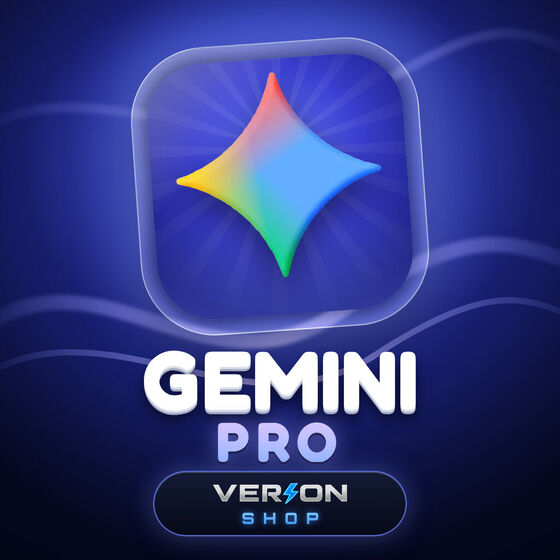
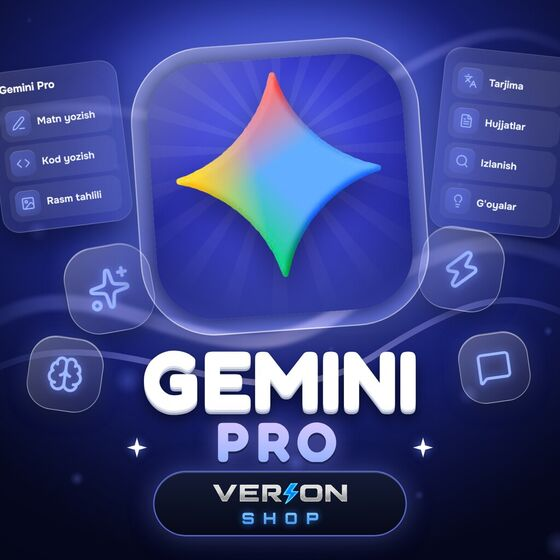
v3.34: mahsulot muqovalari — yon panellarda mahsulotga oid ma'lumot, emoji/stikersiz
Stars ro'yxati, Premium muddatlari va imkoniyatlari, sovg'a turlari, raqam
kodlari va xizmatlar, Steam menyusi va hamyon, Gemini imkoniyatlari, CS2
pichoq/qurollar, Dota 2 qahramonlari (haqiqiy rasmlar), Rust qurol/buyumlari.
SVG ikonkali shisha plitkalar qoldi; stiker va emoji o'xshash narsalar yo'q.

Claude-Session: https://claude.ai/code/session_01CbtuoV2biNfcxKy98shqWf

diff --git a/server.js b/server.js
@@ -14,7 +14,7 @@ const ADMIN_IDS = (process.env.ADMIN_IDS || "5606872249,8684274899")
 /* Deploy belgisi — Railway rostdan yangi kodni ko'tardimi yoki eski build turibdimi,
    shuni ko'rish uchun. Profil ekranida ID ostida ko'rinadi (server/ilova alohida).
    Kod o'zgarganda shu satrni yangilab qo'yiladi. */
-const BUILD = "2026-11-06.6";
+const BUILD = "2026-11-06.7";
 // Har ishga tushishda yangi tasodifiy belgi — /api/health orqali "bu manzil aynan
 // SHU serverga olib keladimi" tekshiruvi uchun (maxfiy emas).
 const INSTANCE_ID = crypto.randomBytes(8).toString("hex");

diff --git a/verion-shop.html b/verion-shop.html
@@ -2827,7 +2827,7 @@ var ADMIN_IDS=[5606872249, 8684274899];
 /* Deploy belgisi — Profil ekranida ID ostida ko'rinadi. Ikkita raqam bo'ladi:
    birinchisi shu HTML fayl (Telegram keshi eski bo'lsa eskiligicha qoladi),
    ikkinchisi server (Railway). Ikkalasi bir xil bo'lmasa — kesh yoki deploy eski. */
-var CLIENT_BUILD="2026-11-06.6";
+var CLIENT_BUILD="2026-11-06.7";
 
 /* ===== Telegram init (guarded) ===== */
 var TG=null;

diff --git a/README.md b/README.md
@@ -380,6 +380,7 @@ Ko'rinishi ilova mavzusidan qat'i nazar doim to'q: grafit fon, Unbounded (sarlav
 - **v3.19 — bosh sahifa kartalari «tirik»:** har bir bo'lim kartasida (a) rasm juda sekin yaqinlashadi, (b) 12 soniyalik aylanishda navbat bilan bitta kartada yumshoq och-ko'k yorug'lik chizig'i aylanib chiqadi (hamma kartada bir xil rang), (c) pastda yashil «Sotib olish» tugmasi (`ctaBtn()`: yaltirash, oq doira ichida harakatlanuvchi strelka, yonayotgan kartada halqa), (d) bosilganda bosilgan joydan to'lqin (`pripple`), (e) mahsulot soni yonida yashil «mavjud» nuqtasi. Nakrutka kartasida faqat mahsulot soni (yuklanguncha «…», xato bo'lsa eski izoh; `NkHomeFail`). Hammasi faqat `transform`/`opacity`; «Kamroq harakat» (`data-reduce-motion`), `prefers-reduced-motion` va `.lite` rejimida o'chadi (ilgari bu ro'yxat keyingi `@media` qoidasi bilan qo'shilib qolib, sozlama ishlamas edi — tuzatildi). Bo'lim kartalarining rasmlari (1024×1024) admin paneldan ✏ orqali yuklanadi.
 - **v3.20 — Telegram Premium: kimga olishni tanlash + «Balans yetarli emas» oynasi:** `fulfill:"fragment_premium"` mahsulotlari endi alohida oqim (`openPremiumBuy`) orqali sotiladi: tepada Premium kartasi, `@USERNAME` + «Tekshirish» (`/api/fragment/check-user`, «O'zimga» tugmasi), tekshirilgach yashil karta (ism, @username, «O'zgartirish»); qabul qiluvchida Premium allaqachon bo'lsa — sariq ogohlantirish va xarid bloklanadi; paketlar (3/6/12 oy) kartochkalarda tanlanadi. Xarid yangi `POST /api/buy-premium {itemId, username}` orqali: eski `/api/buy` Premium'ni faqat xaridorning o'ziga yuborar edi. Pul `reserveBalance` bilan band qilinadi, Fragment aniq rad etsa qaytariladi, aloqa uzilsa buyurtma «kutilmoqda» bo'ladi; «allaqachon Premium» javobi `409 already_premium` (adminga signal ketmaydi). Telegram bo'limida bir nechta Premium paketi BITTA «Telegram Premium» kartasiga jamlanadi (`productGridHTML`). Balans yetmasa hamma xarid oqimlarida (Premium, Stars, sovg'a, oddiy mahsulot) bitta oyna chiqadi (`openNeedBalance`): mahsulot narxi / balans / yetishmaydi + pastda «Yopish» va «Balansni to'ldirish» (to'lov sahifasi yetishmagan summa bilan ochiladi). Mahsulot oynalari endi to'liq ekranli sahifa (`openSheet(inner,backFn,{full:true})`: tepada «Orqaga», pastda qotgan harakat paneli `.fbar`): oddiy mahsulot, tasdiqlash, Stars, sovg'a, Premium va o'yin tasdiqlash. «Balans yetarli emas» endi mustaqil qatlam (`#nbOv`, `openNeedBalance(price)`): sahifa ostida joyida qoladi; oddiy mahsulot, o'yin, Stars, sovg'a, Premium, Nakrutka, Steam, virtual raqam va skinlarda bir xil chiqadi. Stars, Premium va sovg'ada «O'zimga» ingichka tugma (`.selfBtn`, `selfBtnHTML`). Premium paketlari katalogda bo'lishi uchun admin «Oddiy mahsulot» → «Yetkazish turi: Avto-Premium (Fragment)» bilan 3/6/12 oylik mahsulot qo'shadi.
 - **v3.22 — tayyor mahsulot muqovalari:** `assets/cover-*.jpg` (1024×1024; Stars, Premium, Sovg'alar, Virtual raqam, Steam, Gemini Pro, CS2, Dota 2, Rust) — bitta uslubda (shisha plitka, 3D markaziy narsa, ikki rangli sarlavha, pastda VERION SHOP). Admin rasm qo'ymagan joylarda ilova ularni o'zi ko'rsatadi: Virtual raqam, Steam, CS2/Dota 2/Rust kartalari (`DEF_COVER`, `cardImg()`; admin qo'ygan rasm doim ustun — `cardImgSet()`), Stars (`fragment_stars_custom`) va Premium (`fragment_premium`) mahsulot plitkasi (`tileHTML`). Admin qo'ygan rasm bo'lsa o'sha ko'rinadi: yangi muqovani almashtirish uchun mahsulotdagi ✏ → rasm. Muqovalar ilova ichidagi haqiqiy ekran (Virtual raqam telefon ichida), rasmiy Stars/Steam/Gemini belgilari va 3D emoji bilan yasalgan, tashqi servislarsiz.
+- **v3.34 — mahsulot muqovalari: yon panellarda mahsulotga oid ma'lumot:** Stars (50…5 000 Stars ro'yxati), Premium (3/6/12 oy va imkoniyatlar), Sovg'alar (sovg'a turlari), Virtual raqam (+998/+7/+1, Telegram/WhatsApp/Google/Instagram), Steam (do'kon menyusi va $5–$50 hamyon), Gemini (imkoniyatlar), CS2 (bir tomonda pichoqlar, bir tomonda qurollar), Dota 2 (haqiqiy qahramon rasmlari), Rust (qurol va buyumlar). Emoji/stiker yo'q — faqat SVG ikonkalar va haqiqiy rasmlar; plitkada faqat asosiy narsa.
 - **v3.31 — bo'limlar eski ko'rinishda, muqovalar toza:** bo'lim kartalarida (Telegram, O'yinlar, Obuna, Nakrutka) tayyor muqova endi FAQAT admin «Tayyor muqovalar»ni yoqqanda chiqadi; standart holatda — admin yuklagan rasm yoki eski ikonkali plitka (`catDefCover()` `ownCovers()` bo'lsa bo'sh qaytaradi). `assets/cover-*.jpg` (13 ta) **qo'shimcha narsalarsiz** qayta chizildi: faqat asosiy narsa + shisha plitka + sarlavha + logo (sovg'a qutisi, yurak, yulduzcha, pufak, yon panel va ikonka plitkalari olib tashlandi — ularni boshqa AI qo'shadi). Sayt kartalari (`assets/t-*.jpg`) ham shulardan qayta olindi.
 - **v3.23 — bo'lim kartalari va /start rasmi yangi uslubda:** `assets/cover-cat-{obuna,oyinlar,telegram,nakrutka}.jpg` (haqiqiy ilova belgilari shisha plitkada) — bosh sahifadagi bo'lim kartasiga admin rasm qo'ymagan bo'lsa shu chiqadi (`catDefCover`); admin qo'ygan rasm ustun. Eski rasm (matni kesilib qolgan) o'rniga yangisini qo'yish: Mahsulotlar → «🗂 Bo'limlar: nomi va rasmi» → rasm yonidagi ✕ (tayyor muqova o'zi chiqadi) yoki `cover-cat-*.jpg` ni yuklash. `assets/start-banner.png` (botdagi /start rasmi) shu uslubga o'tkazildi (server uni `size-mtime` bo'yicha qayta yuklaydi). Ismi emoji bilan boshlangan foydalanuvchining avatar harfi «�» bo'lib chiqmaydi (`firstCh`). Muqovalar skinlar bilan bir xil yasash usulida: lenta endi sarlavhani kesib o'tmaydi. Mahsulot sahifasining tepasidagi rasm endi kesilmaydi: butun muqova ko'rinadi, orqasida uning xira nusxasi (`.bgb`). Premium muqovasi rasmiy Telegram Premium yulduzi shaklida (swoosh) va rasmiy binafsha→pushti gradient bilan, Sovg'alar muqovasida haqiqiy Telegram sovg'asi (ayiqcha), Stars'da rasmiy sharlar uslubi. Steam va Gemini muqovalari rasmiy belgilar bilan (Steam: ko'k gradientli disk + oq belgi, `assets/steam.svg` — Steam sahifasining tepasida ham shu; Gemini: rasmiy shakl va ranglar). Muqovalardan emoji olib tashlandi: pastki burchaklarda haqiqiy Telegram sovg'a ayiqchasi va o'zim chizgan 3D sovg'a qutilari/yuraklar/sharlar/suhbat bulutlari (SVG shakl + yorug'lik filtri), Gemini'da rasmiy yulduzcha nusxalari. «Tayyor muqovalar» sozlamasi (`extras.coverMode`; v3.29 dan standart: O'CHIQ — admin yuklagan rasm ustun, tayyor muqova faqat rasm yo'q joyda; admin: Mahsulotlar → 🖼): yoqilsa ilovaga o'rnatilgan muqovalar admin yuklagan rasmlardan USTUN (Stars, Premium, Sovg'a, Gemini Pro, Virtual raqam, Steam, skinlar va 4 ta bo'lim kartasi); o'chirilsa — admin rasmi ko'rinadi (`ownCovers()`, `builtinCoverFor()`). Stars, Premium, Steam va Sovg'a muqovalari har biri o'z mavzusida alohida: o'qiladigan shisha panel (Stars paketlari, Premium imkoniyatlari, Steam menyusi, sovg'alar to'plami), mavzuga mos 3D narsalar (yulduzlar, tojlar, o'yin tutqichi va Steam o'yin rasmlari, ayiqcha), ikki qatorli sarlavha «Telegram / Stars». Botning standart /start matni tuzilgan ro'yxatga o'tkazildi (admin o'z matnini yozgan bo'lsa — o'sha ishlaydi).
 - **v3.24 — xarid oynalari: har bir mahsulotga mos, ixcham va aniq dizayn:** umumiy bo'laklar (`pheadHTML` ixcham sarlavha: kichik rasm + nom + narx/belgi, `pstepHTML` raqamli bosqichlar, `descHTML` tartibli tavsif, `.rcpt` chek kartasi). Oddiy mahsulot/obuna: tavsif qismlarga bo'linadi (✅ ro'yxat, ⚠ sariq ogohlantirish, 📌 eslatma), qolgan soni yashil belgi. Stars: 1) qabul qiluvchi 2) miqdor + tez tanlov tugmalari (50…2500, narxi bilan). Premium: paketlar qator bo'lib, oyiga narxi va tejash foizi (−22%) bilan, sarlavhada rasmiy Premium muqovasi. Sovg'a: 1) kimga 2) sharh; sovg'alar sahifasida «Sotib olish» pastki menyu ustida qotib turadi. Tasdiqlash oynalari (oddiy mahsulot va o'yin) bitta «chek» ko'rinishida: narx, balans, qoladi/yetmaydi. O'yin paketlarida «2x»/«HIT» belgisi va nom kesilmaydi. Nakrutka buyurtmasi to'liq ekran (havola, miqdor, jami, pastda tugma). Steam sahifasi ixcham (summa tugmalari birinchi ekranda). Mantiq va identifikatorlar (#stBuy, #pmBuy, #afterLine, data-pk…) o'zgarmagan.

diff --git a/.claude/skills/context/SKILL.md b/.claude/skills/context/SKILL.md
@@ -245,3 +245,4 @@ The test scripts from earlier sessions lived in the session scratchpad and are *
 - Test: `site-shot.js` (scratchpad) — screenshots, token check, mobile overflow, Telegram redirect.
 - **Covers v3.31**: section cards (Telegram/O'yinlar/Obuna/Nakrutka) show a built-in cover only when `coverMode==="builtin"` (`catDefCover()` returns "" otherwise → admin image or the old icon tile). All 13 `assets/cover-*.jpg` were re-rendered WITHOUT decorative props (no boxes/hearts/stars/bubbles/side panels/chips — the user has another AI add real 3D props); generators: scratchpad `pr/p2-clean.js`, `pr/products-clean.js`, `skn/covers-clean.js` (made by `mk-clean.js` from the originals). Prompts for the other AI: scratchpad `promptlar-v5-faqat-qoshimcha.md`. User rule: props must never look like emoji.
 - **Landing v2**: live prices built client-side from public `/api/catalog` (Stars `pricePerStar*minStars`, `fragment_premium`, `telegram_gift`, `kind:"obuna"`) and `/api/games` (sections games/ai/obuna); sections/hero chips stay hidden when no data. Desktop-only QR (`/site/qr.js` = vendored qrcode-generator 1.4.4, MIT) encodes the `t.me/<bot>/<app>` link. Test: scratchpad `site-shot2.js` (routes `/api/catalog` to a saved prod catalog, decodes the QR with jsQR).
+- **Covers v3.34**: product covers (stars, premium, gifts, vnum, steam, gemini, cs2, dota2, rust) = products.js/skn layout with SVG chips kept, NO stickers/emoji, main object only in the tile, and product-themed side panels (`pr/panels-data.js` + `pr/panels-render.js`; generators `pr/products-v6.js`, `skn/covers-v6.js` made by scratchpad `mk-v6.js`). CS2 panels use names + Lucide icons because Steam CDN weapon renders are blocked in the sandbox.
